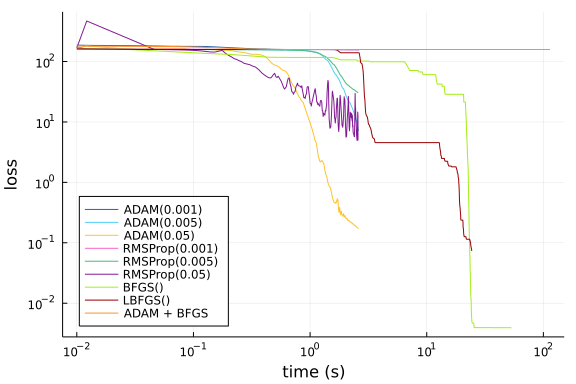
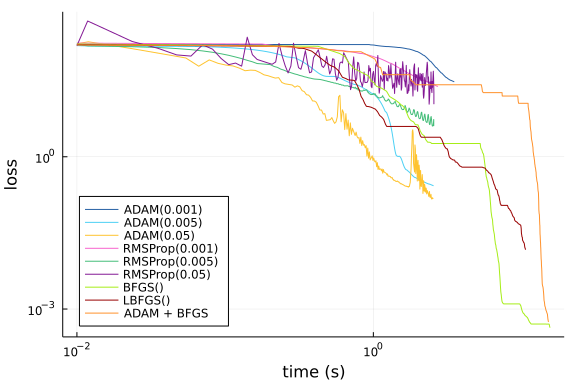
Automatic build\nPublished by build of: https://github.com/SciML/SciMLBenchmarks.jl/commit/61c047455ef7845709acad38f267d75462b74631

diff --git a/markdown/PINNOptimizers/1d_diffusion.md b/markdown/PINNOptimizers/1d_diffusion.md
@@ -37,7 +37,7 @@ function solve(opt)
     domains = [x ∈ Interval(-1.0,1.0),
                t ∈ Interval(0.0,1.0)]
 
-    chain = Lux.Chain(Lux.Dense(2,18,Lux.σ),Lux.Dense(18,18,Lux.σ),Lux.Dense(18,1))
+    chain = Lux.Chain(Lux.Dense(2,18,tanh),Lux.Dense(18,18,tanh),Lux.Dense(18,1))
 
     discretization = PhysicsInformedNN(chain,strategy)
 
@@ -134,17 +134,18 @@ loss_9, times_9 = solve("both")
 ```
 
 ```
-(Any[181.1520613058376, 179.76890484696236, 178.4306164091255, 177.13807185
-27263, 175.89184358206023, 174.69316581974678, 173.54131983349887, 172.4372
-1509372054, 171.3819067589967, 170.37367901907913  …  158.2525617835307, 15
-8.25269382942503, 158.25282750721547, 158.2529382646833, 158.25304885414607
-, 158.25315367291307, 158.25330405670127, 158.2534423910393, 158.2535520673
-5793, 158.2536606511936], Any[0.01, 0.012138128280639648, 0.024121999740600
-586, 0.06501603126525879, 0.07722616195678711, 0.08920907974243164, 0.10087
-108612060547, 0.11258912086486816, 0.12433099746704102, 0.13610410690307617
-  …  107.6046290397644, 108.34716796875, 109.0278389453888, 109.72854399681
-091, 110.44381093978882, 111.15016293525696, 111.83611607551575, 112.522400
-14076233, 113.23117113113403, 113.94628405570984])
+(Any[159.66046306053968, 158.60439041573756, 157.6122315779257, 156.6821639
+506822, 155.8128720996569, 155.0016514999154, 154.24388145654493, 153.53436
+910467752, 152.86669360910818, 152.2338221167056  …  0.000730318056255846, 
+0.0007085908482378465, 0.0006727545628227806, 0.0006440050956860218, 0.0006
+184283400141107, 0.0006121742008270983, 0.0005887785855185885, 0.0005754594
+331250222, 0.000563704674752501, 0.0005568433361956758], Any[0.01, 0.011908
+05435180664, 0.02372002601623535, 0.03544306755065918, 0.08127593994140625,
+ 0.09351301193237305, 0.10534405708312988, 0.11698603630065918, 0.128731966
+01867676, 0.1404709815979004  …  14.976590871810913, 15.000741004943848, 15
+.02496886253357, 15.049202919006348, 15.073423862457275, 15.097702980041504
+, 15.12190294265747, 15.1460440158844, 15.170176982879639, 15.2182478904724
+12])
 ```
 
 
@@ -171,12 +172,13 @@ p = plot([loss_1, loss_2, loss_3, loss_4, loss_5, loss_6, loss_7, loss_8, loss_9
 
 ```
 (loss_1[end], loss_2[end], loss_3[end], loss_4[end], loss_5[end], loss_6[en
-d], loss_7[end], loss_8[end], loss_9[end]) = (156.56724784806084, 7.0881549
-93432761, 0.17194284698539625, 156.1843448121495, 30.254578169087583, 4.936
-459452891098, 0.003933968349759642, 0.07313952961901517, 158.2536606511936)
-(156.56724784806084, 7.088154993432761, 0.17194284698539625, 156.1843448121
-495, 30.254578169087583, 4.936459452891098, 0.003933968349759642, 0.0731395
-2961901517, 158.2536606511936)
+d], loss_7[end], loss_8[end], loss_9[end]) = (29.953570064928265, 0.2681777
+8324726876, 0.14697134452697494, 24.18526653575657, 4.0206669359294365, 10.
+851500422402758, 0.000428893794136428, 0.014926232630149512, 0.000556843336
+1956758)
+(29.953570064928265, 0.26817778324726876, 0.14697134452697494, 24.185266535
+75657, 4.0206669359294365, 10.851500422402758, 0.000428893794136428, 0.0149
+26232630149512, 0.0005568433361956758)
 ```
 
 
